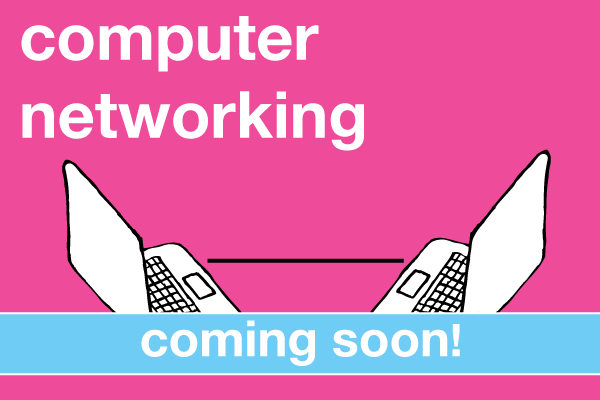
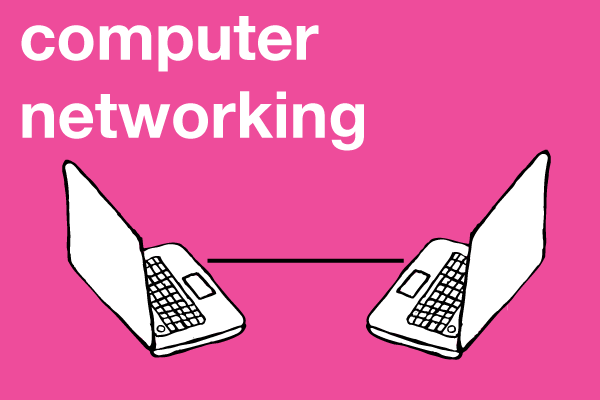
computer networking first cut

Changed region(s): [[0.0, 0.78, 1.0, 0.96]]

diff --git a/db/computing.rb b/db/computing.rb
@@ -69,7 +69,30 @@ section = FactoryGirl.create(:section, topic_id: topic.id, linking: "seventh", m
 section = FactoryGirl.create(:section, topic_id: topic.id, linking: "eighth", main_idea:"A computer needs an energy source, just like you do", header:"A computer needs an <span class='accent1'>energy source</span>, just like you do", content: "Every electronic device needs a power source, whether it is a battery, a solar panel, or for a desktop computer, a thing called a <i>power supply</i>. You plug the cord into a wall outlet. This cord plugs into the power supply. The power supply carries the power from the wall into the computer.  The power supply changes the power to something it can use. It also divides up the power so that each piece of the computer gets the amount of power it needs. If you open up the computer, you will see dozens of wires sticking out of the power supply, to carry power to all the parts where it is needed.")
 #section = FactoryGirl.create(:section, topic_id: topic.id, linking: "eighth", main_idea:"The motherboard connects components so that they work together", header:"The <span class='accent1'>motherboard</span> connects components so that they work together", content: "Almost all of these parts are connected to something that is known as the motherboard. The motherboard is a part of the computer that allows everything to talk and communicate with each other, as well as tell everything in the computer what to do. Cool, huh? It’s kinda what your Mom (or Dad) does! In fact, it’s so much like what a stereotypical mom does that they called it a </i>mother</i>board because it is the “head of the house”, and is in charge of running the “household”, so to speak.")
 
-topic = FactoryGirl.create(:topic, name:"computer networking",  navgraphic: "navgraphics/computernetworking.png", catagory_id: catagory.id, available: "no")
+topic = FactoryGirl.create(:topic, name:"computer networking",  navgraphic: "navgraphics/computernetworking.png", catagory_id: catagory.id, available: "yes")
+section = FactoryGirl.create(:section, topic_id: topic.id, linking: "first", main_idea:"Computer networking is the set of technologies that lets you surf the Internet", header:"<span class='accent1'>Computer networking</span> is the set of technologies that lets you <span class='accent1'>surf</span> the Internet", section_image: "section_images/phonebrowsersurf.png", image_position: "imagerightsmall", content: "The Internet lets you surf the web, send an email, and talk to your grandmother on Skype or FaceTime. The Internet is a very large collection of computers and other connected devices all over the world. <br><br>
+In 1969, there were only four devices on the Internet (then called the ARPANET). Now there are more than three billion Internet users around the world. <br><br>Many of the devices on the Internet are computers - but not all. Gaming systems, smartphones, home security systems, home temperature systems, and even some cars can also be Internet-connected devices.  ")
+section = FactoryGirl.create(:section, topic_id: topic.id, linking: "second", main_idea:"The Internet Backbone is a set of large networks that connect national and international networks together", header:"The <span class='accent1'>Internet Backbone</span> is a set of <span class='accent1'>large networks</span> that <span class='accent1'>connect</span> national and international networks together", section_image: "section_images/bbglobe_91895672.jpg", image_position: "imageleftsmall", content: "The Internet is made up of separate large networks that are connected together. This collection of large national or international networks is called the Internet Backbone. <br><br>Each large network on the Backbone is operated independently. There are network standards that define how they connect to each other and share information. These defined standards allow them to connect and work together across the world! <br><br>When you send an email from the US across the world, say to Japan, how does it get there? ")
+section = FactoryGirl.create(:section, topic_id: topic.id, linking: "third", main_idea:"Internet Backbone networks are very high-speed networks", header:"Internet Backbone networks are very <span class='accent1'>high-speed networks</span>", section_image: "section_images/highspeednetwork.png", image_position: "imagerightsmall", content: "As the email travels around the globe, it crosses multiple networks on the Internet Backbone. These Backbone networks are very high-speed networks. In the US, companies such as AT&T, Level 3, or Sprint run these networks. Internationally, there are other providers for networks within the Backbone, like NTT in Japan, China Telecom in China, and more.<br><br>But your email doesn’t go right to the Internet Backbone and then to your friend in China. Your computer will be connected to the Internet Backbone through what is called an Internet Service Provider, or ISP. Although some ISPs also manage parts of the Backbone, not all do. There may be multiple steps between your computer and the Backbone. Each step in the journey is called a hop.<br><br>So your computer somewhere in the US will get to the Internet through an ISP. There may be multiple hops on the Backbone, and if you are sending your email to Japan, it will eventually cross over into NTT’s part of the Backbone. And then it will make its way to a local ISP, and finally to your friend.")
+section = FactoryGirl.create(:section, topic_id: topic.id, linking: "fourth", main_idea:"WiFi is a standard to connect devices wirelessly", header:"<span class='accent1'>WiFi</span> is a <span class='accent1'>standard</span> to connect devices <span class='accent1'>wirelessly</span>", section_image: "section_images/wifi.png", image_position: "imageleftsmall", content: "Before WiFi was in wide use, people used cables to connect their computers to their home routers, which were connected to their ISP. These days many devices are connected wirelessly to their home router. When you pick a WiFi network, you are picking a local wireless router that will allow you to connect and send and receive data wirelessly. WiFi is a network standard for connecting devices wirelessly to a local network. The standard defines how to connect, disconnect, and exchange data. Computers that network wirelessly have to follow the standard.")
+section = FactoryGirl.create(:section, topic_id: topic.id, linking: "fifth", main_idea:"Many network standards define how different parts of the Internet work together", header:"Many <span class='accent1'>network standards</span> define how different parts of the Internet <span class='accent1'>work</span> together", section_image: "section_images/protocols.png", image_position: "imagerightsmall", content: "Many standards define how different parts of the Internet work together. The standards cover how to send and receive email messages, how to upload files, how to specify what a web page looks like, how to define a location on the Internet, and many more things. These shared standards are the reason that all these different devices and networks all over the world can work together.")
+section = FactoryGirl.create(:section, topic_id: topic.id, linking: "sixth", main_idea:"Each hop on the network is connected through a device called a router", header:"Each <span class='accent1'>hop</span> on the network is connected through a device called a <span class='accent1'>router</span>", section_image: "section_images/networkdiagram.png", image_position: "imageleftsmall", content: "Each hop between you and your friend is connected through a device called a router. Routers can be small devices for local access to an ISP. They can also be complex devices for handling many, many transactions on the Internet Backbone – these are called Backbone Routers. For every type of network connection you can imagine, there is a router that implements that connection.<br><br>Routers figure out how to send information across the Internet from source to destination using addressing information from domain names (”foo.com”) or email address (”joe@gmail.com”). These logical addresses map to physical destinations, just like your street address maps to your house!")
+section = FactoryGirl.create(:section, topic_id: topic.id, linking: "seventh", main_idea:"The web is the part of the internet that web browsers can access", header:"The <span class='accent1'>web</span> is the part of the <span class='accent1'>internet that <span class='accent1'>web browsers</span> can access", section_image: "section_images/websurf.png", image_position: "imagerightsmall", content: "Is the Web the same thing as the Internet? Sort of. The Web is the part of the Internet that has web pages that are written to a particular standard (HTML) and accessible by a different network standard (HTTP). HTML stands for Hypertext Markup Language and is the way you specify what a web page has on it. In addition, you can add styling and many web site features using other standards, like CSS, Javascript, PHP, and more.")
+question = Question.create(catagory_id: catagory.id, topic_id: topic.id, question_num: "1", question_content: "What is a router?", question_image: "section_images/router.png",explanation: "Routers are complex devices that connect devices and networks together. Some routers connect people's home computers to their local Internet Service Provider. Some routers, called Backbone Routers, connect very large, high-speed networks together.")
+answer = Answer.create(question_id: question.id, image: "answer_images/answer_a.png", answer_content: "A device that figures out how to connect different parts of networks together and route network traffic", correct: "true")
+answer = Answer.create(question_id: question.id, image: "answer_images/answer_b.png", answer_content: "A web page you visit on the internet to do your homework")
+answer = Answer.create(question_id: question.id, image: "answer_images/answer_c.png", answer_content: "A device for cleaning out plumbing if your toilet gets clogged")
+question = Question.create(catagory_id: catagory.id, topic_id: topic.id, question_num: "2", question_content: "What is WiFi?", question_image: "section_images/wifi.png",explanation: "WiFi is a network standard that computers and other devices use to connect to a local network. When you connect to a WiFi network, you are connecting to that network's WiFi router, which will route your traffic for you. The WiFi network standard defines how devices connect, disconnect, and exchange data.")
+answer = Answer.create(question_id: question.id, image: "answer_images/answer_a.png", answer_content: "A technology for playing music with good quality")
+answer = Answer.create(question_id: question.id, image: "answer_images/answer_b.png", answer_content: "A standard for connecting a computer or other device to a network without having to use cables to connect", correct: "true")
+answer = Answer.create(question_id: question.id, image: "answer_images/answer_c.png", answer_content: "A married woman")
+
+question = Question.create(catagory_id: catagory.id, topic_id: topic.id, question_num: "3", question_content: "Why are network standards important?", question_image: "section_images/protocols.png",explanation: "Many standards define how different parts of the internet work together. Network standards are the reason that different devices and networks all over the world can work together. There are network standards for many things, such as how to send and receive email messages, how to route messages, how to upload files, how to specify what a web page looks like, and more")
+answer = Answer.create(question_id: question.id, image: "answer_images/answer_a.png", answer_content: "Without network standards, it would be hard to get different devices to work together.")
+answer = Answer.create(question_id: question.id, image: "answer_images/answer_b.png", answer_content: "Without standards, it would be hard to figure out how to send an email to each of your different friends.")
+answer = Answer.create(question_id: question.id, image: "answer_images/answer_c.png", answer_content: "Without network standards, we would not be able to walk into a coffee shop and connect our phones or laptops to the free WiFi")
+answer = Answer.create(question_id: question.id, image: "answer_images/answer_d.png", answer_content: "All of the above are true", correct: "true")
+
 topic = FactoryGirl.create(:topic, name:"computer security",  navgraphic: "navgraphics/computersecurity.png", catagory_id: catagory.id, available: "no")
 topic = FactoryGirl.create(:topic, name:"future of computing",  navgraphic: "navgraphics/computing_devices.png", catagory_id: catagory.id, available: "no")
 #topic = FactoryGirl.create(:topic, name:"how computers work",  navgraphic: "navgraphics/computeranatomy.png", catagory_id: catagory.id, available: "no")
